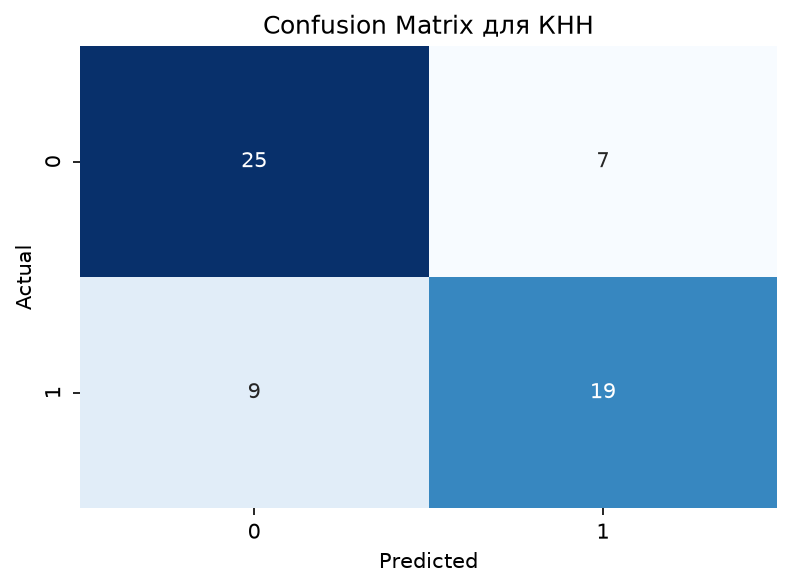
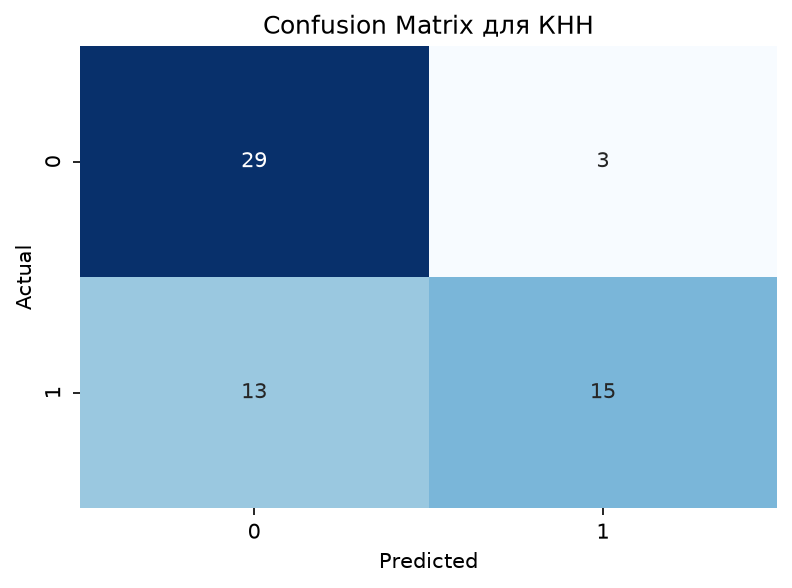
task 4 start

diff --git a/task_4/task_4.py b/task_4/task_4.py
@@ -1,0 +1,128 @@
+import pandas as pd
+import matplotlib.pyplot as plt
+import numpy as np
+import seaborn as sns
+
+from sklearn.linear_model import LinearRegression
+from sklearn.neighbors import KNeighborsClassifier
+from sklearn.svm import SVR
+from sklearn.metrics import mean_absolute_error, root_mean_squared_error
+from sklearn.metrics import mean_absolute_percentage_error
+from sklearn.svm import SVC
+from sklearn.preprocessing import StandardScaler
+from sklearn.pipeline import make_pipeline
+from sklearn.model_selection import GridSearchCV
+from sklearn.metrics import confusion_matrix
+from sklearn.metrics import accuracy_score, f1_score, log_loss
+from sklearn.metrics import classification_report
+from sklearn.metrics import roc_curve, auc
+from sklearn.linear_model import LogisticRegression
+
+
+def read_data(data_file: str, separator: str) -> pd.DataFrame:
+    """Загружает CSV-файл в DataFrame pandas."""
+    df = pd.read_csv(data_file, encoding="utf-8", sep=separator)
+    return df
+
+def scaler(x_test, x_train):
+    scaler = StandardScaler()
+    x_train_scaled = scaler.fit_transform(x_train)
+    x_test_scaled = scaler.transform()
+    return x_train_scaled, x_test_scaled
+
+def ols(x_train, y_train, x_test):
+    ols = LinearRegression().fit(x_train, y_train)
+    return ols.predict(x_test)
+
+def svm(x_train, y_train, x_test):
+    param_grid = {
+    'svc__C': [0.1, 1, 10],
+    'svc__kernel': ['linear', 'rbf'],
+    'svc__gamma': ['scale', 0.1, 1]
+}
+    _svm = make_pipeline(StandardScaler(), SVC(kernel='linear', C=0.1, probability=True, gamma='scale')).fit(x_train, y_train)
+    grid = GridSearchCV(_svm, param_grid, cv=5, scoring='accuracy')
+    grid.fit(x_train, y_train)
+
+    return (_svm.predict(x_test)>=0.5).astype(int), _svm.predict_proba(x_test)
+
+def log_regression(x_train, y_train, x_test):
+    model = LogisticRegression()
+    model.fit(x_train, y_train)
+    return model.predict(x_test)
+
+
+def class_metrics(metrics_dict):
+    results = []
+    valid = np.asarray(metrics_dict["valid"], dtype=float).ravel()
+    reserved_keys = {"valid", "train"}
+    for model_name, predicted in metrics_dict.items():
+        if model_name in reserved_keys:
+            continue
+        predicted = np.asarray(predicted, dtype=float).ravel()
+        accuracy = accuracy_score(valid, predicted)
+        f_score = f1_score(valid, predicted)
+        results.append({
+                "Модель": model_name,
+                "accuracy": accuracy,
+                "f_score": f_score,
+            })
+        _confusion_matrix(predicted, valid, model_name)
+    
+    return pd.DataFrame(results)
+
+def _confusion_matrix(y_pred_class, y_class, name):
+    conf_matrix = confusion_matrix(y_pred=y_pred_class, y_true=y_class)
+    plt.figure(figsize=(6, 4))
+    sns.heatmap(conf_matrix, annot=True, fmt='d', cmap='Blues', cbar=False)
+    plt.xlabel('Predicted')
+    plt.ylabel('Actual')
+    plt.title(f'Confusion Matrix для {name}')
+    plt.savefig(f'task_3/data/conf_method_{name}.png', dpi=150, bbox_inches='tight')
+    plt.show()
+    
+def roc(y_class, y_predict_proba, name):
+    fpr, tpr, thresholds = roc_curve(y_true=y_class, y_score=y_predict_proba[:, 1])
+    roc_auc = auc(fpr, tpr)
+    plt.figure()
+    plt.plot(fpr, tpr, label=f'AUC = {roc_auc:.2f}')
+    plt.plot([0, 1], [0, 1], 'k--', label='случайный классификатор')  
+    plt.xlabel('FPR')
+    plt.ylabel('TPR')
+    plt.title(f'ROC-кривая для {name}')
+    plt.legend(loc='lower right')
+    plt.savefig(f'task_3/data/roc_{name}.png', dpi=150, bbox_inches='tight')
+    plt.show()
+
+def main():
+    path = 'Classification1.csv'
+    separator = ','
+    
+    data = read_data(path, separator)
+    data["time_idx"] = np.arange(len(data))
+    threshold = 100
+    data['class'] = np.where(data['count']>= threshold, 1, 0)
+    data = data.iloc[:int(len(data)*0.1)]
+    y_col = 'count'
+
+    split_idx = int(len(data) * 0.8)
+    train_df = data.iloc[:split_idx].copy()
+    test_df = data.iloc[split_idx:].copy()
+    y_train = train_df[y_col].values
+    t_train = train_df["time_idx"]
+    y_test = test_df[y_col].values
+    t_test = test_df["time_idx"]
+    
+    x1_col = 'workingday'
+    x2_col = 'temp'
+    x_train = train_df[[x1_col]]
+    x_test = test_df[[x1_col]]
+    xn_cols = ['workingday', 'holiday', 'windspeed', 'temp', 'humidity', 'summer']
+    x2_train = train_df[[x1_col, x2_col]]
+    x2_test = test_df[[x1_col, x2_col]] 
+    x6_train = train_df[xn_cols]
+    x6_test = test_df[xn_cols]
+
+
+if __name__ == "__main__":
+    main()

diff --git a/task_3/task_3.py b/task_3/task_3.py
@@ -244,8 +244,8 @@ def main():
     predicted_ols2_class = np.where(predicted_ols2>threshold, 1, 0)
     predicted_svr2 = svr(x2_train, y_train, x2_test, 10)
     predicted_svr2_class = np.where(predicted_svr2>threshold, 1, 0)
-    class_svm, svm_proba = svm(x6_train, train_df['class'].values, x6_test)
-    class_knn, knn_proba = knn(x6_train, train_df['class'].values, x6_test)
+    class_svm, svm_proba = svm(x2_train, train_df['class'].values, x2_test)
+    class_knn, knn_proba = knn(x2_train, train_df['class'].values, x2_test)
 
     # linear(t_train, y_train, t_test, y_test, predicted_ols2, 'МНК с двумя параметрами')
     # linear(t_train, y_train, t_test, y_test, predicted_svr2, 'SVR с двумя параметрами')
@@ -253,8 +253,8 @@ def main():
     # linear(t_train, train_df['class'].values, t_test, test_df['class'].values, predicted_ols2_class, 'МНК с двумя параметрами')
     # linear(t_train, train_df['class'].values, t_test, test_df['class'].values, predicted_svr2_class, 'SVR с двумя параметрами')
     
-    # linear(t_train, train_df['class'].values, t_test, test_df['class'].values, class_svm, 'SVM')
-    # linear(t_train, train_df['class'].values, t_test, test_df['class'].values, class_knn, 'КНН')
+    linear(t_train, train_df['class'].values, t_test, test_df['class'].values, class_svm, 'SVM')
+    linear(t_train, train_df['class'].values, t_test, test_df['class'].values, class_knn, 'КНН')
 
 
     
@@ -277,8 +277,8 @@ def main():
 
     metrics_table = metrics(metrics_dict, y_train=y_train)
 
-    # print("\nСводная таблица метрик:")
-    # print(metrics_table)
+    print("\nСводная таблица метрик:")
+    print(metrics_table)
     
     class_metrics_dict = {
         "valid": test_df['class'].values,
@@ -288,12 +288,12 @@ def main():
         "SVM": class_svm
     }
     
-    # metrics_class_table = class_metrics(class_metrics_dict)
-    # print("\nСводная таблица метрик классификации:")
-    # print(metrics_class_table)
+    metrics_class_table = class_metrics(class_metrics_dict)
+    print("\nСводная таблица метрик классификации:")
+    print(metrics_class_table)
     
-    # roc(test_df['class'].values, svm_proba,'SVM')
-    # roc(test_df['class'].values, knn_proba, "KNN")
+    roc(test_df['class'].values, svm_proba,'SVM')
+    roc(test_df['class'].values, knn_proba, "KNN")
     print(f'Log_loss for SVM: {log_loss(test_df['class'], svm_proba)}')
     print(f'Log_loss for KNN: {log_loss(test_df['class'], knn_proba)}')
 if __name__ == "__main__":

diff --git a/task_2/task_2.py b/task_2/task_2.py
@@ -141,7 +141,7 @@ def main():
     
     linear(t_train, y_train, t_test, y_test, predicted_ols2, 'МНК с двумя параметрами')
     linear(t_train, y_train, t_test, y_test, predicted_svr2, 'SVR с двумя параметрами')
-    
+        
     dict_metrics = {}
     dict_metrics['valid'] = test_df[y_col].values
     dict_metrics['arima'] = predicted_arima    
